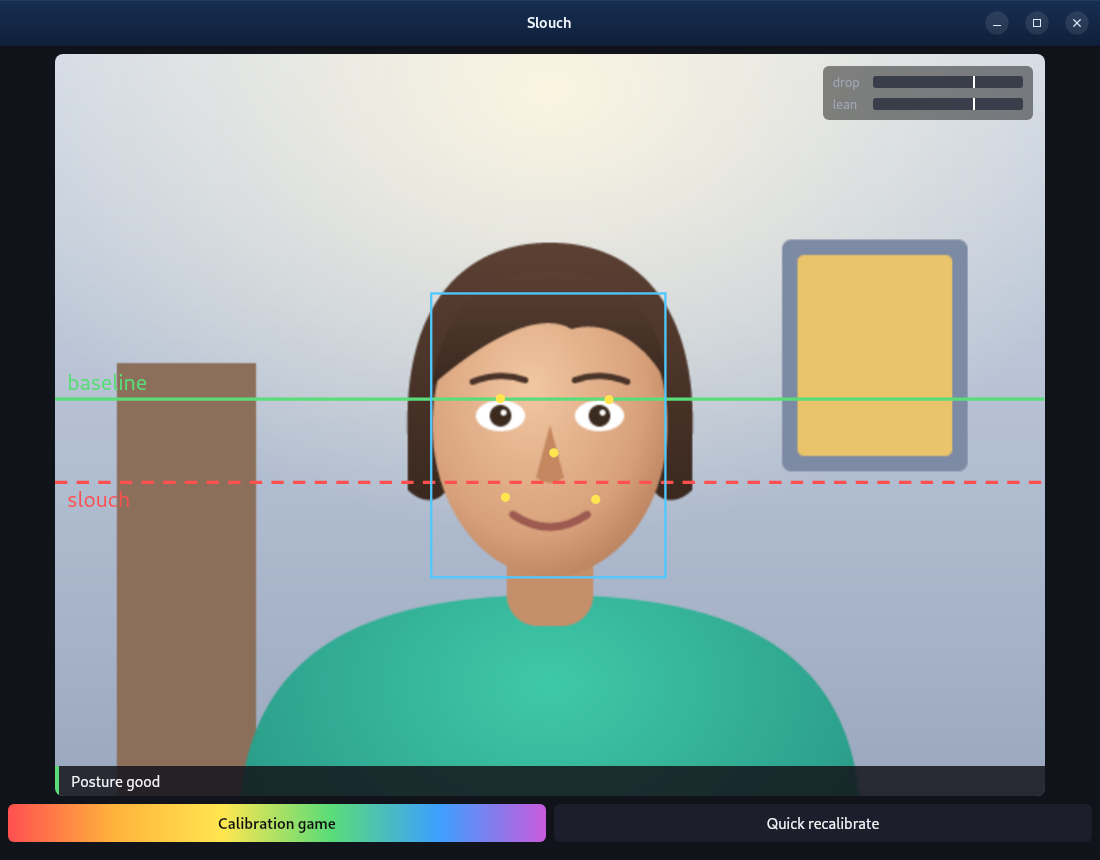
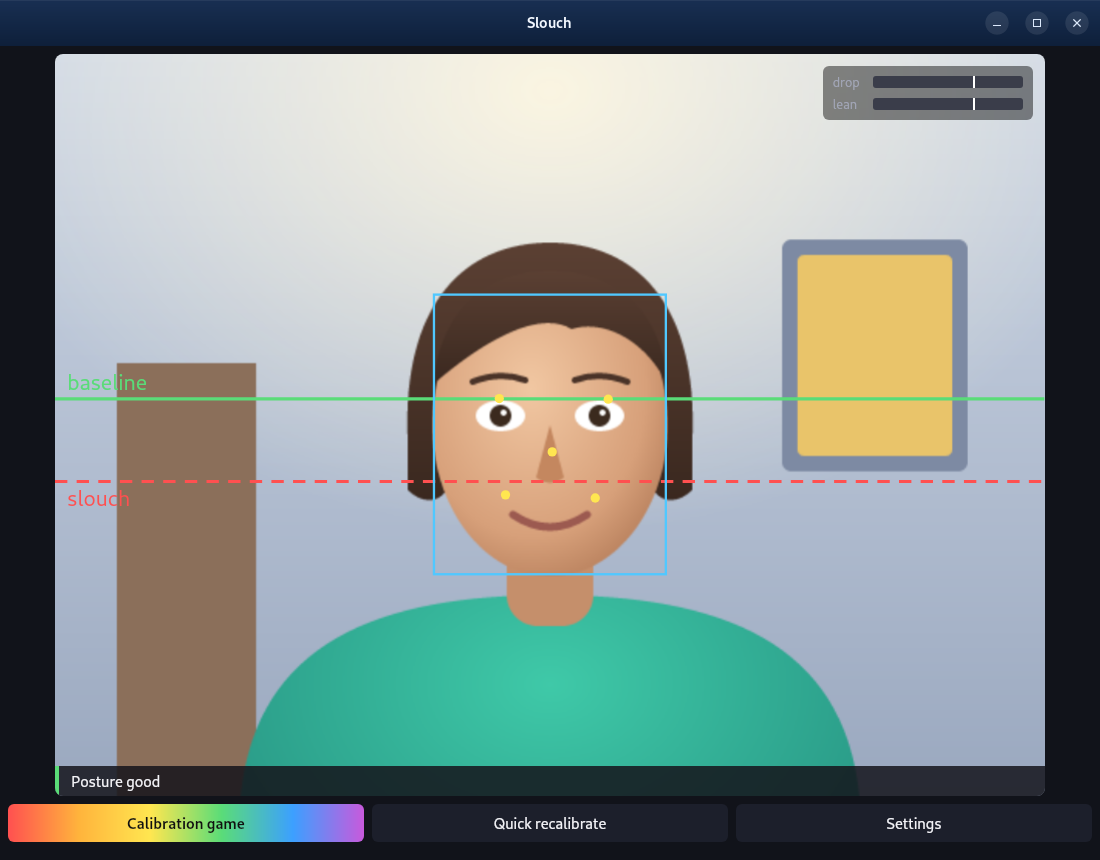
README shows the settings window
Screenshots regenerated, with the settings window added to them.

diff --git a/README.md b/README.md
@@ -29,7 +29,10 @@ grey when it can't see you or is paused. Its menu shows the current status and h
   your screens, slouching, and leaning in, then set the limits halfway between. It runs by itself
   the first time Slouch starts.
 - **Recalibrate** — three seconds of sitting nicely sets a new baseline.
+- **Settings** — which camera to use, the two slouch limits, and how soon and how often to nag.
 - **Pause** and **Quit**.
+
+<img src="docs/screenshots/settings.png" alt="The settings window" width="480">
 
 The baseline also follows you slowly: it catches up within minutes when you sit better than it,
 but only over half an hour when you sit worse, so gradual slouching isn't quietly accepted.
@@ -40,16 +43,17 @@ cargo build --release
 target/release/slouch            # tray only
 target/release/slouch --show     # with the camera window open
 target/release/slouch --demo     # with the drawn stand-in instead of a webcam
+target/release/slouch --settings # with the settings window open
 ```
 
-Calibration is saved in `~/.config/slouch/thresholds.json`, and each game's recording in
-`~/.cache/slouch/games/`.
+The limits are saved in `~/.config/slouch/thresholds.json`, other settings in
+`~/.config/slouch/settings.json`, and each calibration game's recording in `~/.cache/slouch/games/`.
 
 ## Platforms
 
-Linux is where Slouch is developed and used. macOS and Windows builds type-check but haven't been
-run yet; `packaging/macos/bundle.sh` makes an app bundle, which macOS needs before it allows camera
-access.
+Linux is where Slouch is developed and used. CI builds and tests it on macOS and Windows too, but
+it hasn't been run as an app there yet. `packaging/macos/bundle.sh` makes an app bundle, which macOS
+needs before it allows camera access.
 
 ## How it's built
 
